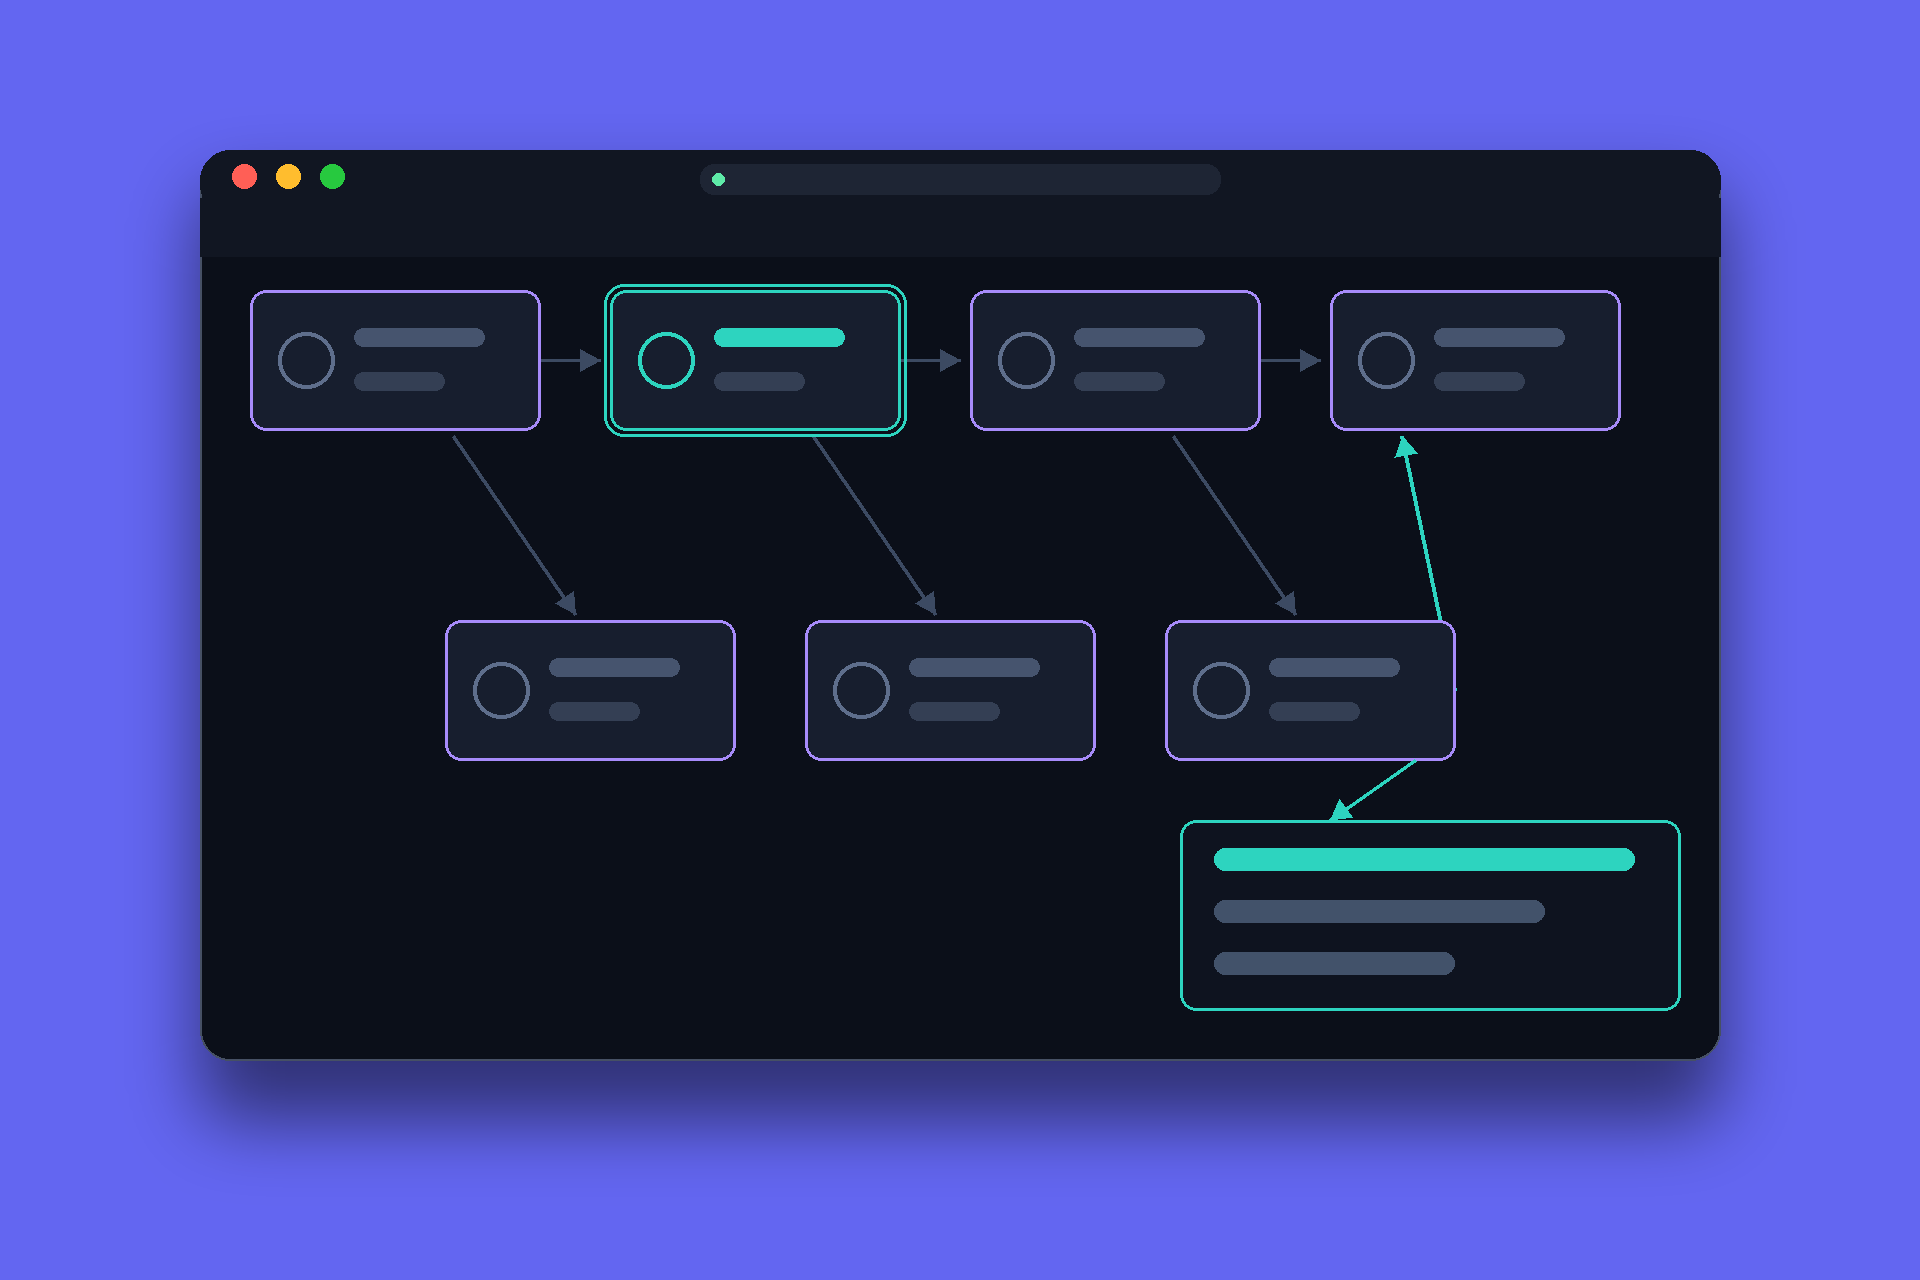
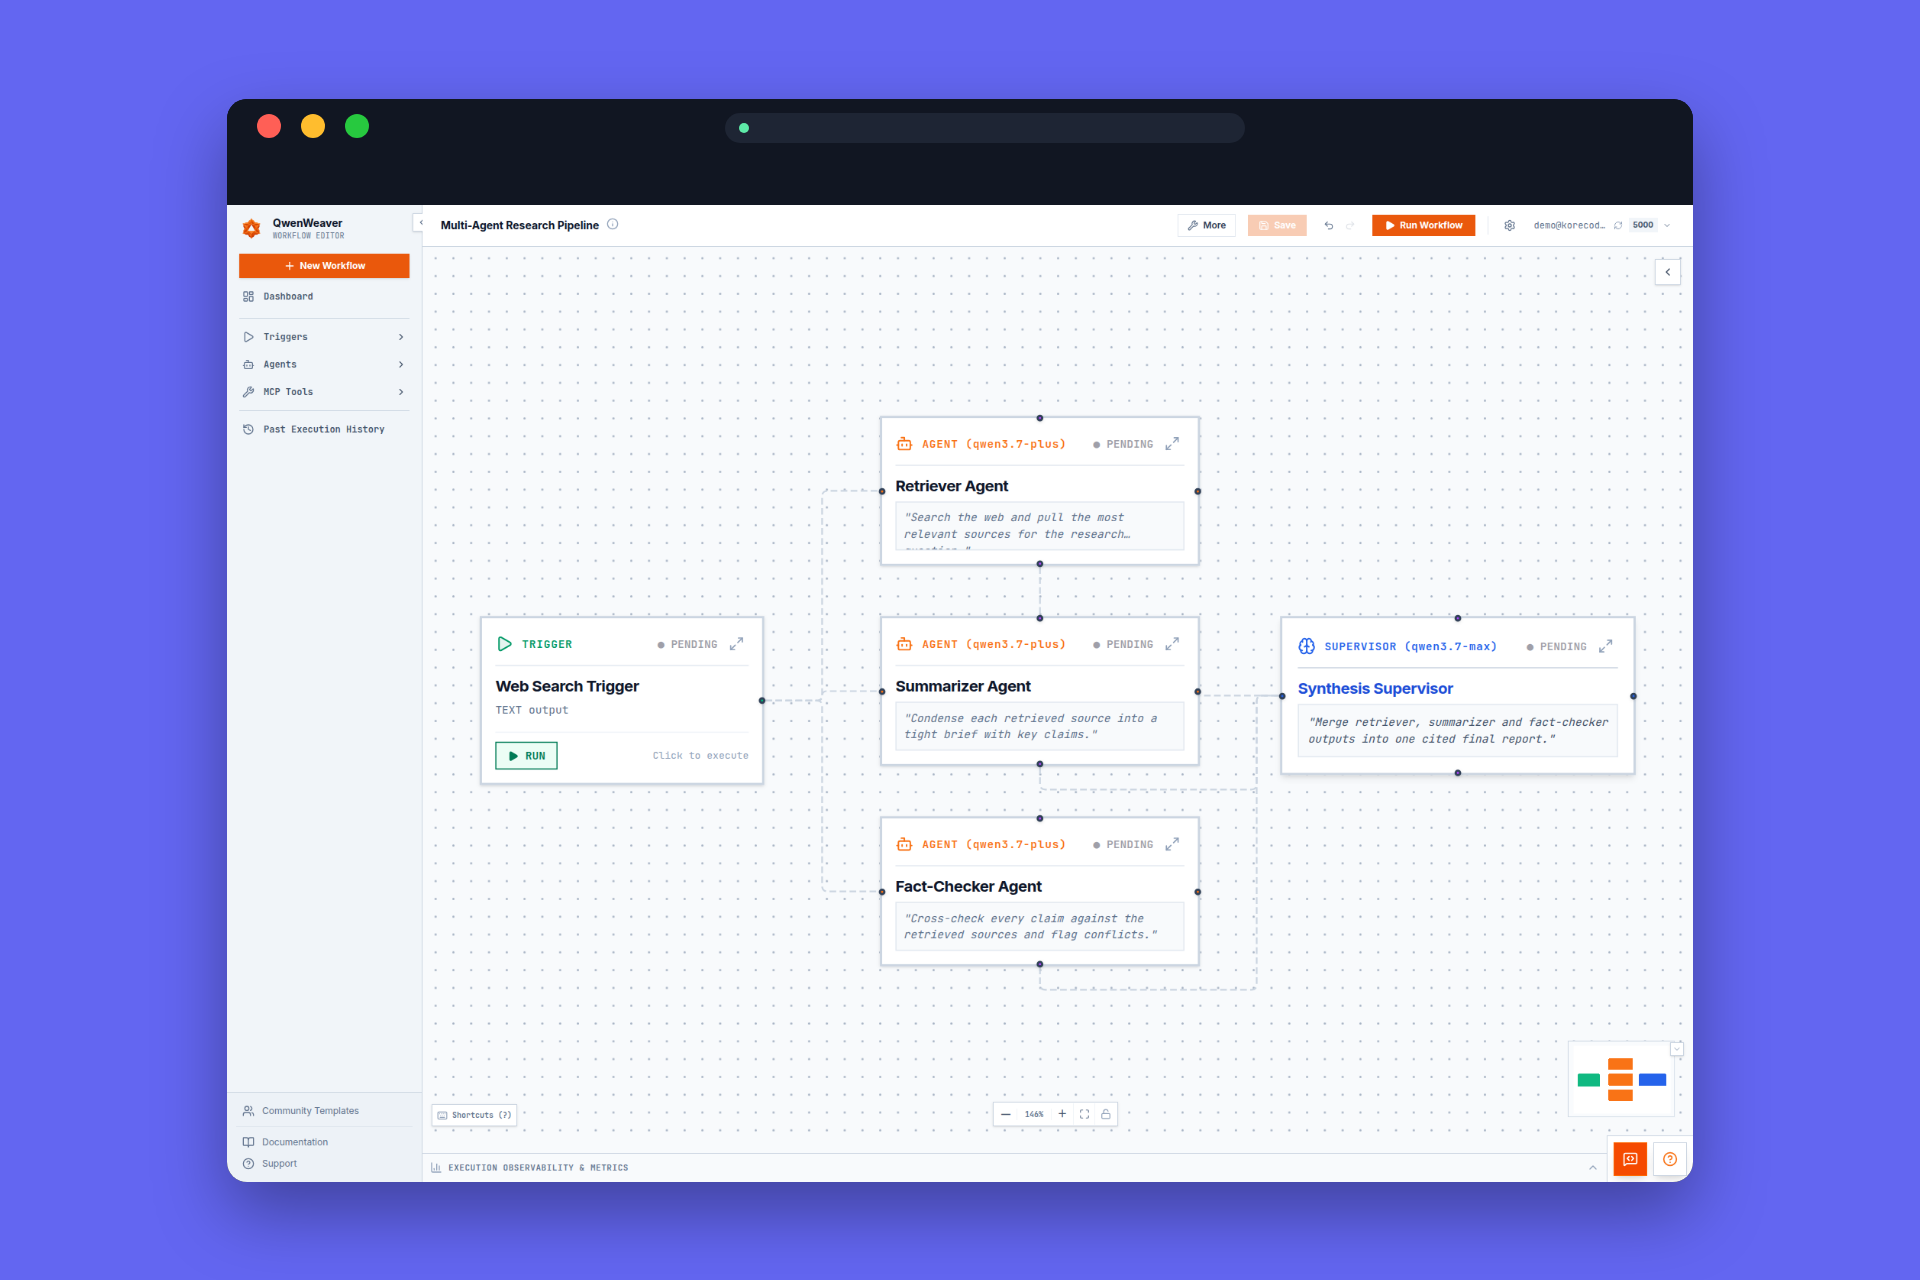
redesign: real product screenshots in mac window frame for qwenweaver, rag-eval, sigil + accurate qwenweaver stack

diff --git a/constants/index.ts b/constants/index.ts
@@ -23,8 +23,8 @@ export const projects = [
       "A multi-agent workflow orchestrator that compiles tasks into a DAG: independent branches execute in parallel with real-time streaming, and a conflict-resolution step judges and merges competing agent responses against the task's criteria.",
     stack: [
       { name: "TypeScript" },
-      { name: "LangGraph" },
-      { name: "Next.js" },
+      { name: "React Flow" },
+      { name: "Hono" },
     ],
     image: "/assets/work/qwenweaver.png",
     live: "https://youtu.be/rWAoW_FgRBY",

diff --git a/constants/case-studies.ts b/constants/case-studies.ts
@@ -71,7 +71,7 @@ export const caseStudies: CaseStudy[] = [
     year: "2025–2026",
     category: "AI · Orchestration",
     role: "Solo builder — orchestration engine, runtime, UI",
-    stack: ["TypeScript", "LangGraph", "Next.js"],
+    stack: ["TypeScript", "React Flow", "Hono"],
     image: "/assets/work/qwenweaver.png",
     links: [
       {
